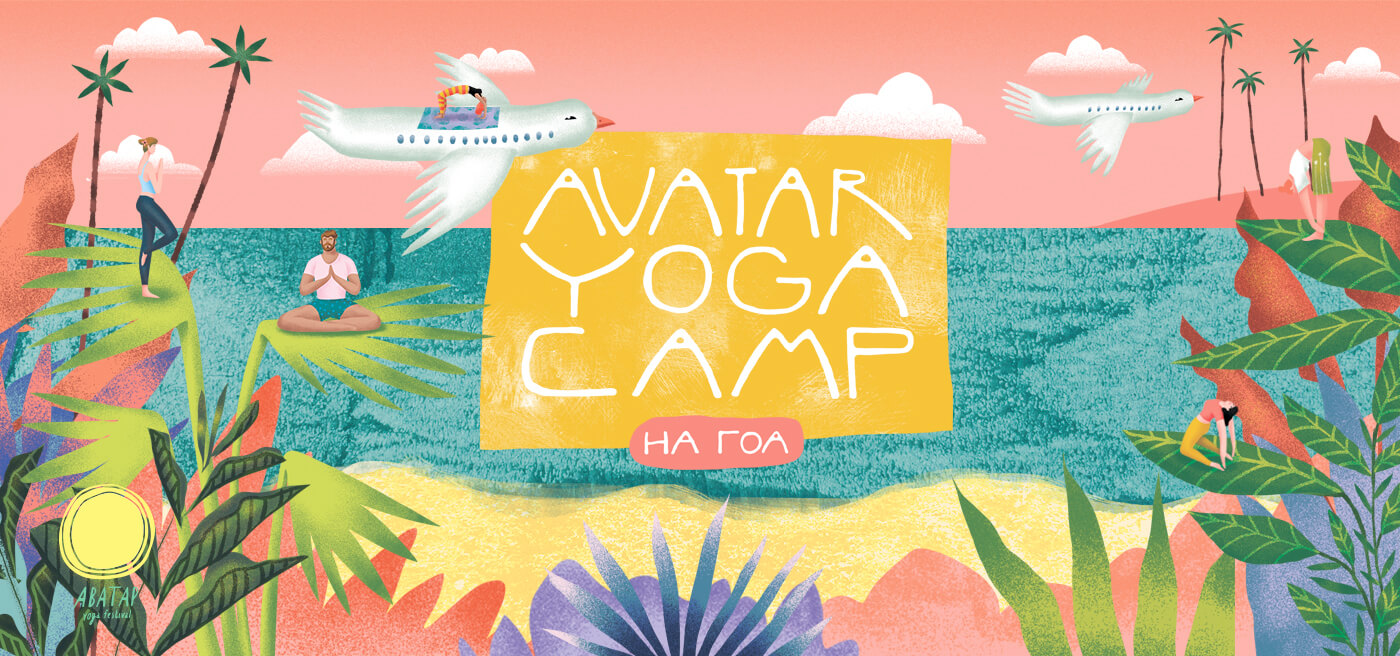
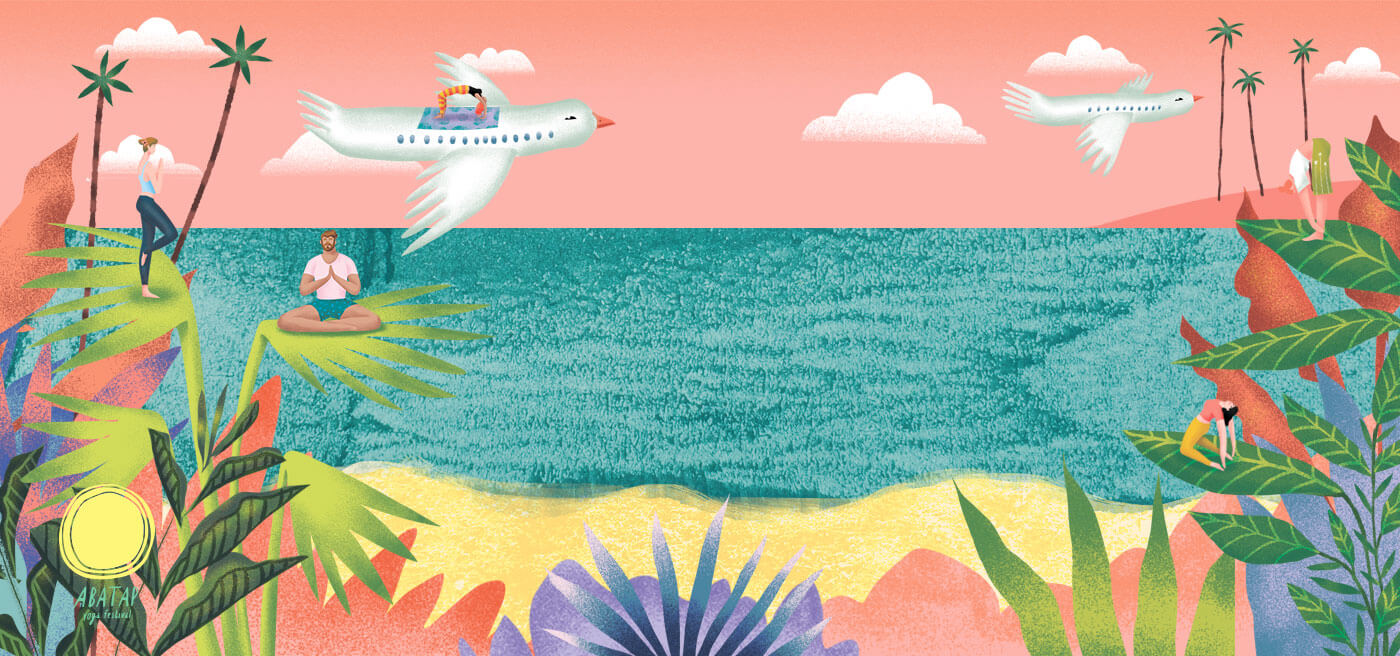
Update header bg

diff --git a/index.php b/index.php
@@ -140,9 +140,9 @@
         </div>
     </nav>
     <div class="transform-c-c align-c description">
-        <h1>Йогамарафон в Гоа</h1>
-        <small>от фестиваля йоги и музыки АВАТАР</small>
-        <address>27 декабря<br> Харьков, Fabrika Space,<br>ул. Благовещенская, 1 (бывшая Карла Маркса)</address>
+        <h1>Avatar Yoga Camp</h1>
+        <small>на Гоа</small>
+        <address>28 декабря - 15 января<br> Северный Гоа, Арамболь</address>
         <ul class="btn-group list-inline">
             <li>
                 <a href="#order" class="scroll_to_target ticket">Купить билет</a>
